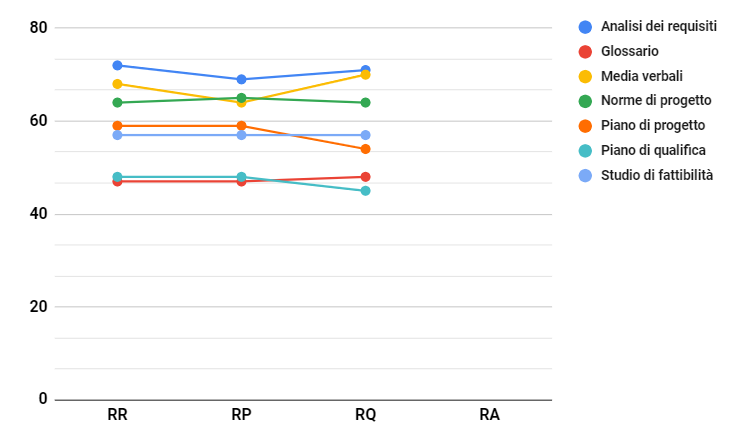
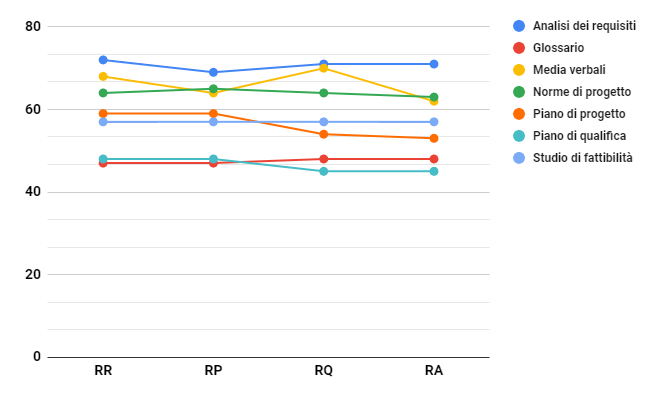
pdq terminato

diff --git a/esterni/piano_di_qualifica/res/sez_A_resoconto_verifica.tex b/esterni/piano_di_qualifica/res/sez_A_resoconto_verifica.tex
@@ -2,7 +2,7 @@
 	Per la verifica della documentazione si utilizza la tecnica del \glock{walkthrough} revisionando i documenti per intero e la tecnica di \glock{inspection}.
 
 \subsubsection{Calcolo leggibilità e controllo ortografia dei documenti}
-	Per verificare quanto sono leggibili i documenti redatti si utilizza l'\glock{indice di gulpease} ed è stato effettuato un controllo di ortografia. La seguente tabella contiene i risultati ottenuti all'ultima release dei documenti:
+	Per verificare quanto sono leggibili i documenti redatti si utilizza l'\glock{indice di Gulpease} ed è stato effettuato un controllo di ortografia. La seguente tabella contiene i risultati ottenuti all'ultima release dei documenti:
 
 \begin{table} [h!]
 	\rowcolors{2}{gray!25}{gray!6}
@@ -11,18 +11,18 @@
 			\rowcolor{lightgray}
 			\textbf{Documento}&\textbf{Errori ortografici}&\textbf{Indice di gulpease}&\textbf{Esito}\\
             \dext{Analisi dei requisiti v3.0.0}	& 0	& 71 &Superato\\
-            \dext{Glossario v3.0.0}				& 0	& 48 &Superato\\
-            \dext{Media verbali v1.0.0}			& 0	& 70 &Superato\\
-            \dext{Norme di progetto v3.0.0} 	& 0	& 64 &Superato\\
-            \dext{Piano di progetto v3.0.0}		& 0 & 54 &Superato\\
-            \dext{Piano di qualifica v3.0.0}	& 0	& 45 &Superato\\
+            \dext{Glossario v4.0.0}				& 0	& 48 &Superato\\
+            \dext{Media verbali v1.0.0}			& 0	& 62 &Superato\\
+            \dext{Norme di progetto v4.0.0} 	& 0	& 63 &Superato\\
+            \dext{Piano di progetto v4.0.0}		& 0 & 53 &Superato\\
+            \dext{Piano di qualifica v4.0.0}	& 0	& 45 &Superato\\
             \dext{Studio di fattibilità v1.0.0}	& 0	& 57 &Superato\\
 		\end{tabular}
 	\end{center}
 	\caption{Esiti verifiche automatizzate - Revisione di Qualifica}
 \end{table}
 
-\subsection{MD01 - Indice di Gulpease}
+\subsection{MD01 - \glock{Indice di Gulpease}}
 
 \begin{figure}[H]
 	\centering

diff --git a/esterni/piano_di_qualifica/main.tex b/esterni/piano_di_qualifica/main.tex
@@ -40,7 +40,7 @@
 
 \setModifiche{
 	4.0.0 & Valton Tahiraj & Responsabile & 22-08-2021 & Approvazione documento\\
-	3.1.0 & Lucia Fenu,   Paolo Scanferlato & Amministratore, Verificatore & 22-08-2021 & Aggiornamento resoconto di verifica\\
+	3.1.0 & Paolo Scanferlato,   Lucia Fenu & Amministratore, Verificatore & 22-08-2021 & Aggiornamento resoconto di verifica\\
     3.0.0 & Alessandro Chimetto & Responsabile & 17-07-2021 & Approvazione documento\\
 	2.2.0 & Giacomo Bulbarelli, Valton Tahiraj & Amministratore, Verificatore & 15-07-2021 & Aggiornamento resoconto di verifica\\
 	2.0.0 & Alessandro Dindinelli, Alessandro Chimetto & Amministratore, Verificatore & 11-05-2021 & Rimossi test dei requisiti di prestazione \\
